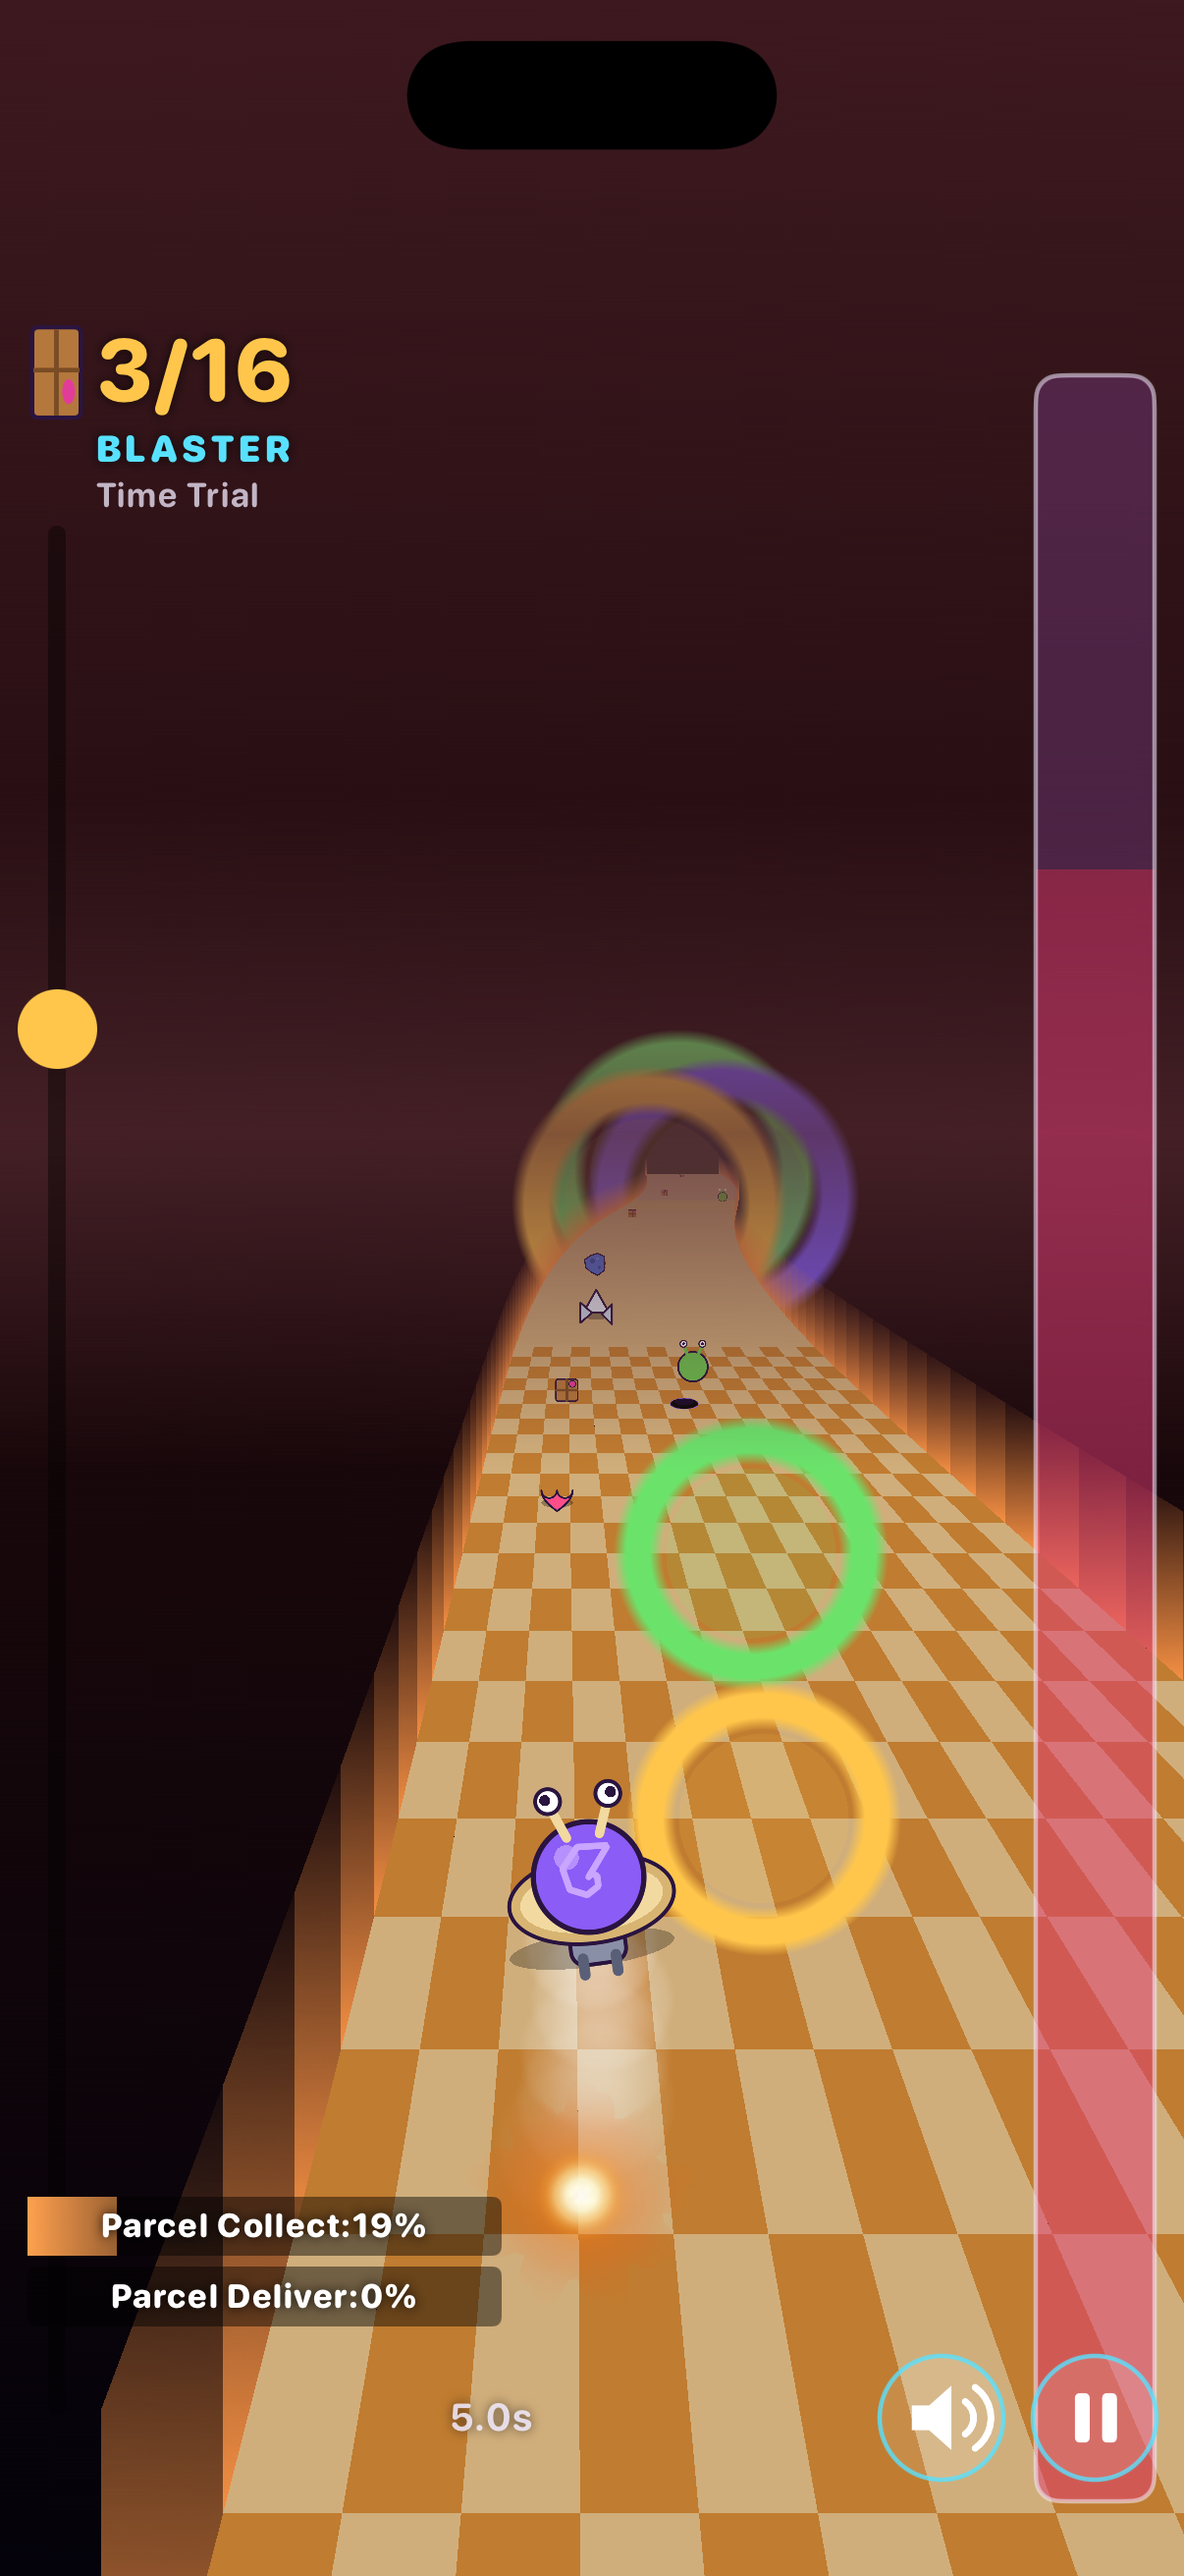
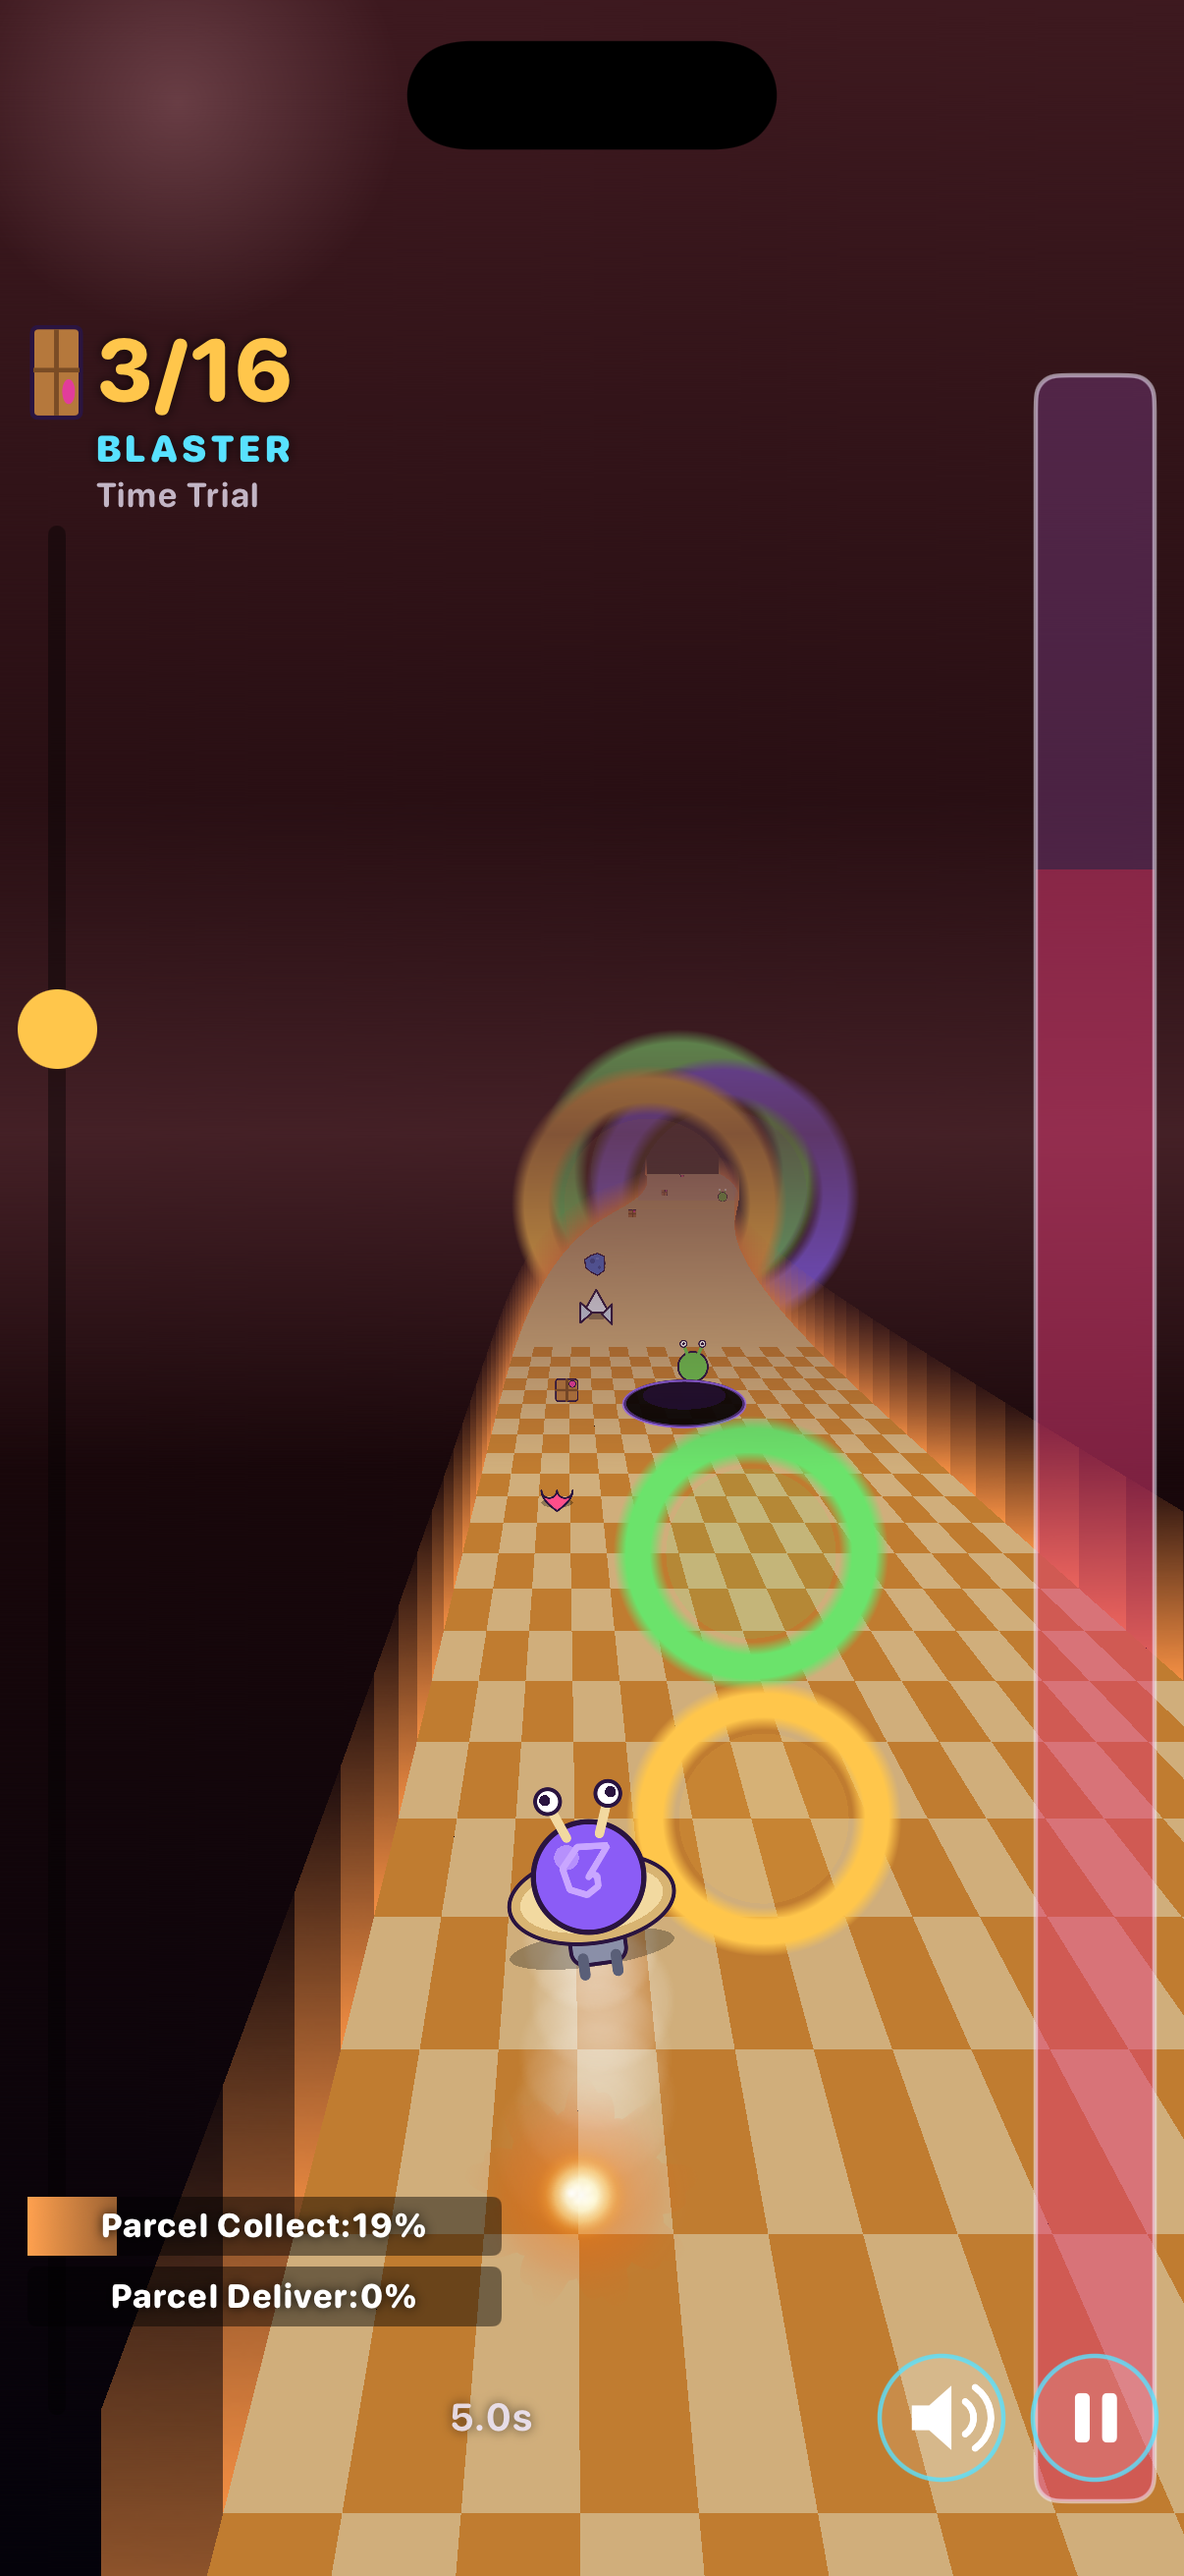
size a scattered pit like the retail ones, not like a ramp
`entityModelWidth` never named `.hole` — it fell through to `.ramp`'s `0.700`,
and the comment above that branch claimed the path was unreachable because "a
pit carries its own in the same place". That holds for every course laid from
the retail grids, where the `#` run hands the pit its span, but not for the
free modes: `scatterHazards` places a pit with no width at all, so Time Trial
grew its pits at 0.700 model units. Read back off the simulator with
`-sizeprobe`, a scattered pit drew at 0.078 of the road — narrower than the
narrowest pit any retail piece ships, which is one cell, 1.0 unit — while the
drawing below it inks its whole 126-unit base. Before the model-units commit
the same pit was `holeHalfWidth * 2`, 0.90 of the road.

It is now 3.0 units, the width the retail grids use most: their `#` runs are 1,
2, 3, 4 and 5 cells, and three cells is the commonest at 41% of them. That also
keeps it steerable, which the old 0.90 would not have: the touching-boxes test
this branch feeds gives a 3.0-unit pit a tolerance of 0.401, leaving half the
road to pass on, where 8.1 units would have left 0.033. A scattered pit now
measures 0.333 of the road, and Time Trial level 2 runs to the finish line.

The `default` that used to swallow `.hole` is gone, so the switch is exhaustive
now and the next kind added cannot slip through it the same way.

Changed region(s): [[0.0614, 0.0, 0.2454, 0.0927], [0.5216, 0.5252, 0.6443, 0.5561]]

diff --git a/SnailMail/Sources/Game/Sprites.swift b/SnailMail/Sources/Game/Sprites.swift
@@ -830,11 +830,19 @@ enum Sprites {
         case .signBang:            return CGFloat(SignKind.bang.modelWidth)
         case .signConstruction:    return CGFloat(SignKind.construction.modelWidth)
         case .signStop:            return CGFloat(SignKind.stop.modelWidth)
-        // Only reached when a piece leaves a ramp's width unset; a run of ramp
-        // cells carries the span it covers in `EntitySpec.width` instead, and a
-        // pit carries its own in the same place.
+        // A pit normally carries the span of its `#` run in
+        // `EntitySpec.width` and a ramp the columns its `>` run covers, so
+        // these fallbacks are only reached when a caller places one without a
+        // width. The free modes' scatter does exactly that.
+        //
+        // The pit's fallback is the width the retail grids use most: their
+        // `#` runs are 1, 2, 3, 4 and 5 cells, and three cells (3.0 units) is
+        // the commonest at 41% of them. It also has to be steered around, and
+        // the build's touching-boxes test means a pit that wide leaves just
+        // over half the road to pass on. Riding the ramp's 0.700 drew it a
+        // third narrower than the narrowest pit any retail piece ships.
+        case .hole:       return 3.0
         case .ramp:       return 0.700
-        default:          return 0.700
         }
     }
 
